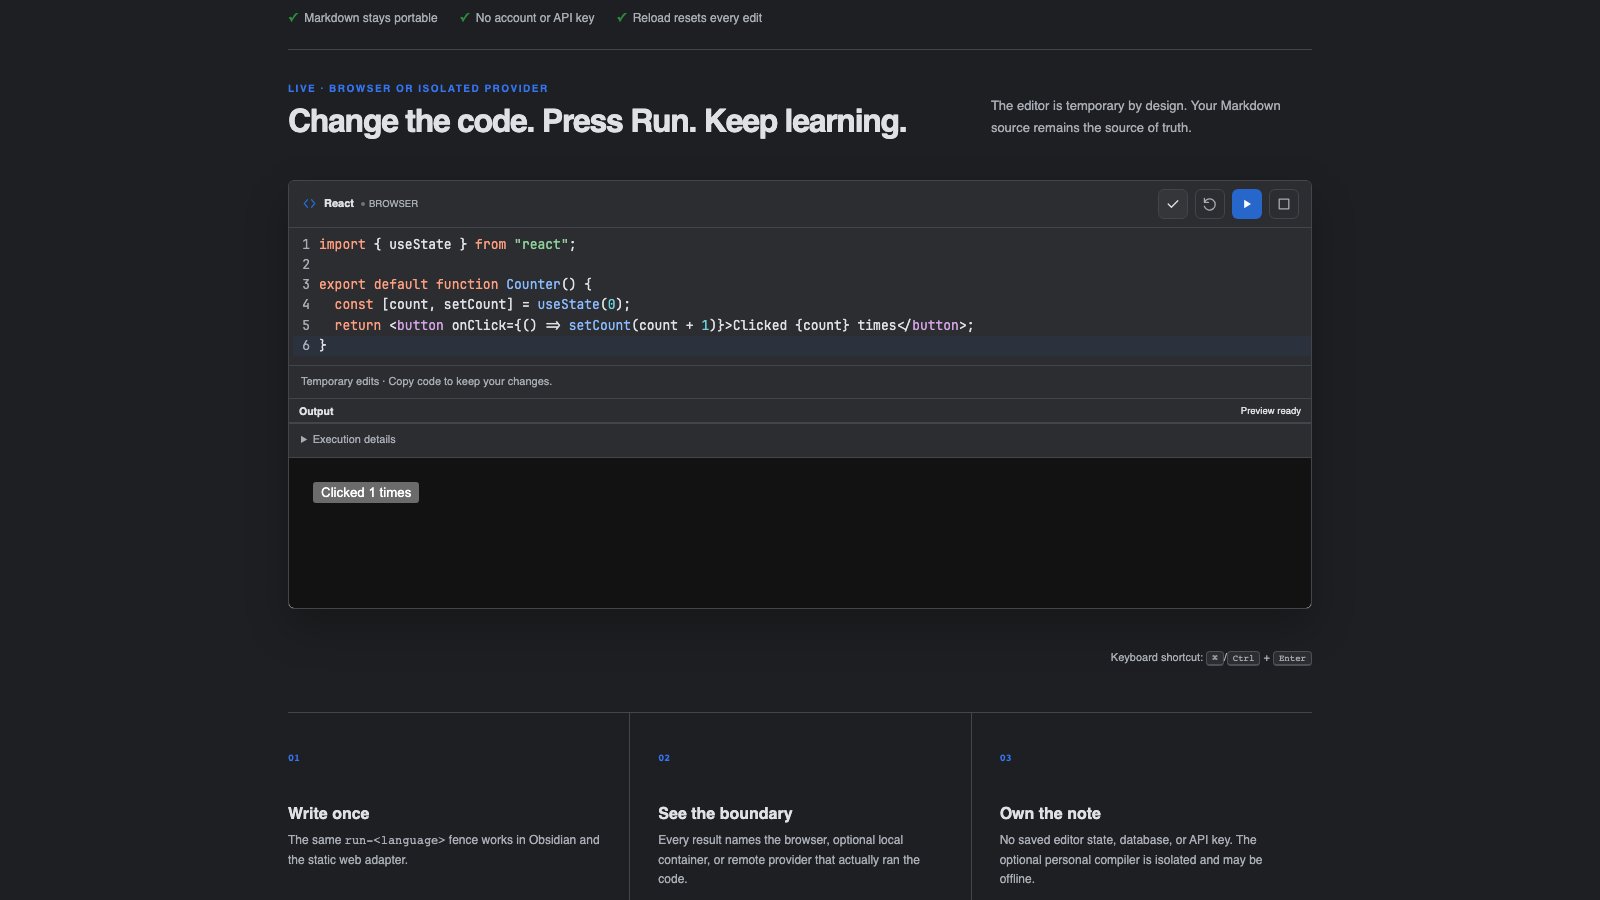
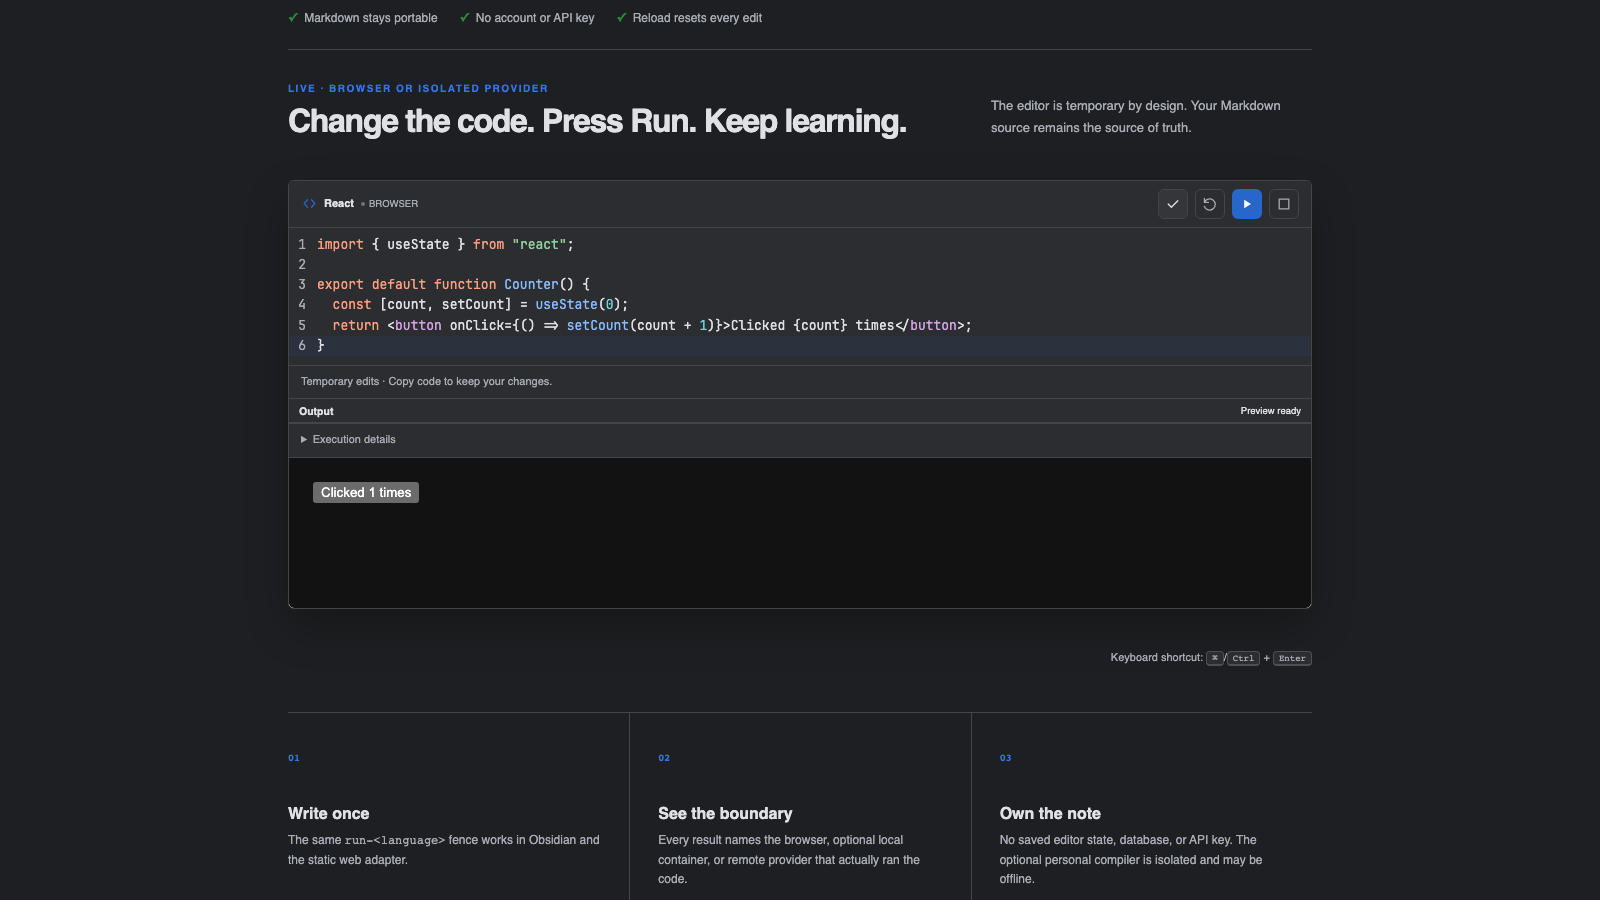
docs: refresh editor media and native gutter verification

Changed region(s): [[0.1875, 0.3111, 0.5938, 0.3733], [0.1875, 0.2489, 0.3438, 0.28]]

diff --git a/docs/verification.md b/docs/verification.md
@@ -57,6 +57,8 @@ The following provider observations were recorded on 2026-09-05. They are not a 
 
 The local candidate was installed in a separate public sample vault with receipt and asset-hash verification. In Obsidian 1.13.7 on macOS, Canvas execution, Stop, a fresh execution, and Copy succeeded. Actions use SVG icons with accessible names; measured controls were 30×30 CSS pixels with 8 pixels above and 9 below including the toolbar divider. Light/dark themes and zoom were inspected. A host CSS override of the primary action was corrected so Run retains the host accent and secondary actions remain subdued.
 
+The nested editor gutter fix (`00ad7ba`) removes Obsidian's inherited 24-pixel folding margin. Before the fix, the host-style regression failed; afterward, all four focused layout tests and static checks passed. Native light/dark checks measured a zero-pixel gap and equal active-row top edges and backgrounds, including a keyboard move to line 7. Code padding is 8 pixels and editor vertical padding is 7/9 pixels. The standalone server bundle hash remained unchanged.
+
 The existing 360/1280-pixel browser tests now check actual control spacing, SVG presence, accessible names, copying, and horizontal overflow. These browser viewports do not constitute physical mobile-app verification. A WebGL watchdog failure occurred during an earlier combined run; subsequent isolated and full runs passed, but its original cause remains unconfirmed. No timeout assertion was relaxed to pass it.
 
 ## Community scan boundaries
